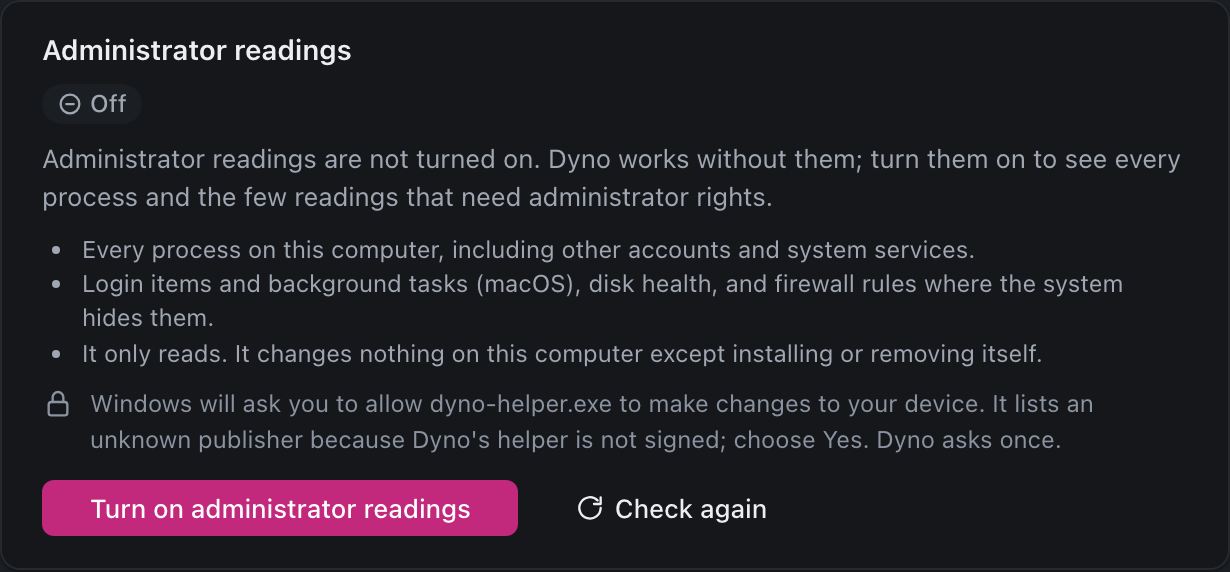
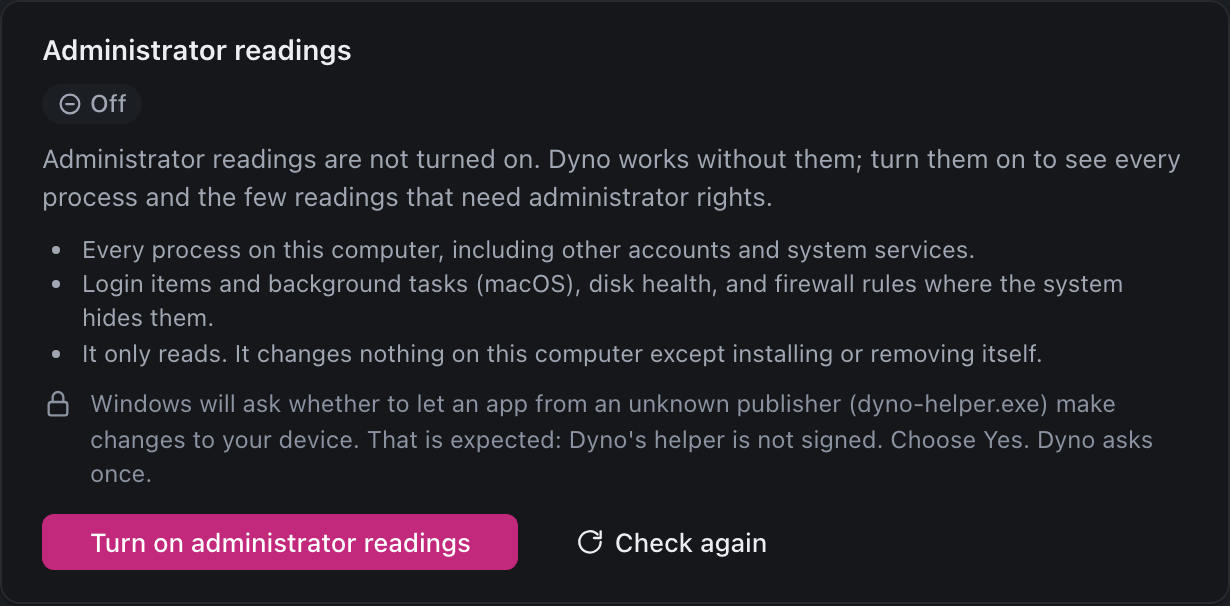
fix: missing socket folder is Off, self-removal unregisters first, Linux installed means enabled

diff --git a/apps/dyno/app/src/app/core/mock/helper.ts b/apps/dyno/app/src/app/core/mock/helper.ts
@@ -10,7 +10,7 @@ export const MOCK_HELPER_VERSION = '1.1.0';
 const PROMPTS: Record<MockOs, string> = {
   macos: 'macOS asks for your account password, in a window titled by osascript, to let Dyno install its helper.',
   windows:
-    "Windows will ask you to allow dyno-helper.exe to make changes to your device. It lists an unknown publisher because Dyno's helper is not signed; choose Yes.",
+    "Windows will ask whether to let an app from an unknown publisher (dyno-helper.exe) make changes to your device. That is expected: Dyno's helper is not signed. Choose Yes.",
   linux: 'Your desktop asks you to authenticate (polkit) so Dyno can install its helper.',
 };
 

diff --git a/apps/dyno/crates/dyno-agent/src/helper_os.rs b/apps/dyno/crates/dyno-agent/src/helper_os.rs
@@ -80,6 +80,20 @@ pub fn unsupported(host: HelperHost, bundled: &Path, bundled_exists: bool, appim
     Ok(())
 }
 
+/// Whether the helper has been turned on: its protected program is there (macOS, Windows), or, on Linux, where the package puts the
+/// program in place whether or not anyone enabled it, the service is enabled (`systemctl is-enabled`, which needs no rights).
+pub fn is_installed(host: HelperHost, program: &Path, runner: &dyn ToolRunner) -> bool {
+    if host != HelperHost::Linux {
+        return program.exists();
+    }
+    runner
+        .run_tool(
+            &tool("/usr/bin/systemctl", &["is-enabled", "dyno-helper.service"]),
+            Duration::from_secs(5),
+        )
+        .is_ok_and(|o| o.ok)
+}
+
 /// The program the elevated `uninstall` runs. Windows cannot delete a program that is running, so the installed copy cannot remove
 /// itself (measured in the Windows 11 VM: `RemoveProgram ... Access is denied`); the bundled copy removes it. Elsewhere the
 /// installed copy does (the running file can be unlinked).
@@ -160,7 +174,7 @@ pub fn centre() -> HelperCentre<PeerTransport> {
     let installed_path = paths.binary.clone();
     let transport = PeerTransport::new(paths.endpoint.clone(), {
         let p = installed_path.clone();
-        move || p.exists()
+        move || is_installed(host, &p, &SystemRunner)
     });
     let owner = current_owner(host, &SystemRunner);
     let installer = OsInstaller {
@@ -199,7 +213,7 @@ mod tests {
     impl ToolRunner for Says {
         fn run_tool(&self, t: &Tool, _: Duration) -> Result<ToolOutput, dyno_core::ports::PlatformError> {
             assert!(
-                t.program == "whoami" || t.program == "/usr/bin/id",
+                ["whoami", "/usr/bin/id", "/usr/bin/systemctl"].contains(&t.program.as_str()),
                 "only fixed programs: {}",
                 t.program
             );
@@ -218,6 +232,31 @@ mod tests {
         assert!(current_owner(HelperHost::Linux, &Says("nope".into()))
             .unwrap_err()
             .contains("which account"));
+    }
+
+    #[test]
+    fn on_linux_the_helper_is_installed_when_its_service_is_enabled_not_when_the_package_put_the_program_there() {
+        // Measured on Ubuntu (Orb): with the program in /usr/bin and the service not enabled the card said "Not running" instead of "Off".
+        let enabled = Says("enabled\n".into());
+        let program = Path::new("/usr/bin/dyno-helper");
+        assert!(is_installed(HelperHost::Linux, program, &enabled));
+        struct Disabled;
+        impl ToolRunner for Disabled {
+            fn run_tool(&self, _: &Tool, _: Duration) -> Result<ToolOutput, dyno_core::ports::PlatformError> {
+                Ok(ToolOutput {
+                    ok: false,
+                    stdout: "disabled\n".into(),
+                    error: String::new(),
+                })
+            }
+        }
+        assert!(!is_installed(HelperHost::Linux, program, &Disabled));
+        // Elsewhere the protected program's presence decides (a path that is not there: not installed, no tool run).
+        assert!(!is_installed(
+            HelperHost::Macos,
+            Path::new("/definitely/not/here/dyno-helper"),
+            &enabled
+        ));
     }
 
     #[test]

diff --git a/crates/paddock-service/src/privileged/install_tests.rs b/crates/paddock-service/src/privileged/install_tests.rs
@@ -997,7 +997,8 @@ fn a_service_removing_itself_deletes_its_files_first_and_stops_last() {
             .log()
             .iter()
             .find(|l| *l == "evict" || *l == "unregister"),
-        Some(&"evict".to_string())
+        Some(&"unregister".to_string()),
+        "the registration goes before the stop that ends this process"
     );
 }
 
@@ -1094,5 +1095,35 @@ fn a_process_that_does_not_end_is_an_error_that_names_it_and_removes_nothing() {
     assert!(
         files.facts_of(Path::new(MAC_PROGRAM)).is_some(),
         "the program stays"
+    );
+}
+
+#[test]
+fn a_service_removing_itself_unregisters_before_it_stops_because_the_stop_ends_the_process_running_the_steps()
+ {
+    // Measured in a macOS VM: `launchctl bootout` of its own job ended the helper before the plist was removed, so the
+    // definition stayed behind. Taking the registration away first leaves nothing to restart and nothing behind.
+    let files = mac_disk();
+    files.put_file(MAC_PROGRAM, b"x", 0, 0o755);
+    let backend = Scripted::with(|s| {
+        s.registered = true;
+        s.running = true;
+        s.process = Some(helper_process());
+        s.alive_polls = 5;
+    });
+    let (mut f, mut b, mut sys) = (files.clone(), backend.clone(), FakeSystem::new());
+    Installer::new(&layout_for(Os::MacOs), &mut f, &mut b, &mut sys)
+        .uninstall_self()
+        .unwrap();
+    let log = backend.log();
+    let at = |what: &str| {
+        log.iter()
+            .position(|l| l == what)
+            .unwrap_or_else(|| panic!("{what} not in {log:?}"))
+    };
+    assert!(at("unregister") < at("evict"), "{log:?}");
+    assert!(
+        log.iter().all(|l| !l.starts_with("alive")),
+        "it does not wait for its own process: {log:?}"
     );
 }

diff --git a/crates/paddock-ipc/tests/it/system.rs b/crates/paddock-ipc/tests/it/system.rs
@@ -168,6 +168,34 @@ fn a_system_endpoint_in_a_missing_or_linked_folder_is_refused_with_the_cause() {
     assert!(Stream::connect_system("helper.sock", T).is_err());
 }
 
+#[cfg(unix)]
+#[test]
+fn a_client_finding_no_folder_or_no_socket_sees_nothing_listening_not_an_untrusted_server() {
+    // Measured in a clean macOS VM: before the helper is installed its socket folder does not exist, and the agent called that
+    // an endpoint it did not trust ("Not trusted") instead of "Off". Nothing there is nothing listening.
+    let dir = tempfile::tempdir().unwrap();
+    let missing = dir
+        .path()
+        .join("no/such/helper.sock")
+        .to_string_lossy()
+        .into_owned();
+    let e = Stream::connect_system(&missing, T).err().unwrap();
+    assert!(
+        matches!(&e, SystemConnectError::Connect(io) if io.kind() == std::io::ErrorKind::NotFound),
+        "{e}"
+    );
+    // A folder that exists and is the client's own is still refused (not root's), whether or not a socket is in it.
+    let own = dir.path().join("own.sock").to_string_lossy().into_owned();
+    let e = Stream::connect_system(&own, T).err().unwrap();
+    assert!(
+        matches!(
+            e,
+            SystemConnectError::Untrusted(Untrusted::FolderOwner { .. })
+        ),
+        "{e}"
+    );
+}
+
 #[cfg(windows)]
 #[test]
 fn a_pipe_not_owned_by_system_is_refused_before_anything_is_sent() {

diff --git a/crates/paddock-service/src/privileged/install.rs b/crates/paddock-service/src/privileged/install.rs
@@ -324,12 +324,22 @@ impl<'a> Installer<'a> {
         let mut notes = Vec::new();
         // Read before the stop: afterwards the OS may not name the process any more.
         let running = self.backend.job_process();
-        if let Err(e) = self.backend.evict() {
-            notes.push(format!("stop: {e}"));
+        if self.running_here {
+            // The stop ends the process that is running these steps: take the registration away first.
+            self.backend
+                .unregister()
+                .map_err(|e| failed(Step::StopExisting, e))?;
+            if let Err(e) = self.backend.evict() {
+                notes.push(format!("stop: {e}"));
+            }
+        } else {
+            if let Err(e) = self.backend.evict() {
+                notes.push(format!("stop: {e}"));
+            }
+            self.backend
+                .unregister()
+                .map_err(|e| failed(Step::StopExisting, e))?;
         }
-        self.backend
-            .unregister()
-            .map_err(|e| failed(Step::StopExisting, e))?;
         let mut waited = Duration::ZERO;
         while !self.backend.job_gone() {
             if waited >= self.waits.gone {

diff --git a/crates/paddock-ipc/src/endpoint/unix.rs b/crates/paddock-ipc/src/endpoint/unix.rs
@@ -193,6 +193,16 @@ impl Stream {
         expected_uid: u32,
     ) -> Result<Stream, super::SystemConnectError> {
         use super::SystemConnectError::{Connect, Untrusted};
+        // No folder at all means nothing is listening (the service was never installed): that is not an untrusted server.
+        let parent = Path::new(name)
+            .parent()
+            .filter(|p| !p.as_os_str().is_empty())
+            .unwrap_or_else(|| Path::new("."));
+        if let Err(e) = std::fs::symlink_metadata(parent)
+            && e.kind() == io::ErrorKind::NotFound
+        {
+            return Err(Connect(e));
+        }
         super::unix_peer::check_folder_of(name, expected_uid).map_err(Untrusted)?;
         let stream = Stream::connect(name, timeout).map_err(Connect)?;
         let uid = peer_uid(&stream.s).ok_or_else(|| {

diff --git a/apps/dyno/crates/dyno-core/src/helper_wire.rs b/apps/dyno/crates/dyno-core/src/helper_wire.rs
@@ -323,7 +323,7 @@ pub fn version_at_least(have: &str, min: &str) -> bool {
 pub fn prompt_text(host: HelperHost) -> &'static str {
     match host {
         HelperHost::Windows => {
-            "Windows will ask you to allow dyno-helper.exe to make changes to your device. It lists an unknown publisher because Dyno's helper is not signed; choose Yes."
+            "Windows will ask whether to let an app from an unknown publisher (dyno-helper.exe) make changes to your device. That is expected: Dyno's helper is not signed. Choose Yes."
         }
         HelperHost::Macos => "macOS asks for your account password, in a window titled by osascript, to let Dyno install its helper.",
         HelperHost::Linux => "Your desktop asks you to authenticate (polkit) so Dyno can install its helper.",

diff --git a/apps/dyno/crates/dyno-helper/src/setup.rs b/apps/dyno/crates/dyno-helper/src/setup.rs
@@ -135,6 +135,11 @@ pub fn remove_data_folder(paths: &HelperPaths) -> Result<String, String> {
 /// # Errors
 /// What went wrong.
 pub fn uninstall_self(os: Os) -> Result<Report, String> {
+    // The last step ends this process, so what the helper wrote goes first (a file this process holds open may stay: said in the log).
+    match remove_data_folder(&helper_paths()) {
+        Ok(note) => log::info!(note = note.as_str(); "self-uninstall: the data folder"),
+        Err(why) => log::warn!(why = why.as_str(); "self-uninstall: the data folder was kept"),
+    }
     uninstall_self_in_place(os, &windows_roots(&ProcessVars), &mut RealFiles, &system).map_err(|e| e.to_string())
 }
 

diff --git a/apps/dyno/crates/dyno-agent/tests/helper_vm.rs b/apps/dyno/crates/dyno-agent/tests/helper_vm.rs
@@ -35,6 +35,7 @@ fn the_helper_state_and_one_action_on_this_machine() {
     let centre = helper_os::centre();
     let before = centre.status();
     println!("state before: {:?}: {}", before.state, before.message);
+    println!("detail before: {:?}", before.detail);
     if let Some(action) = action() {
         let registry = JobRegistry::with_clock(Arc::new(Print), Arc::new(SystemClock), 0);
         let ctx = registry.register("helper", "Helper", None);

diff --git a/apps/dyno/docs/helper-verification.md b/apps/dyno/docs/helper-verification.md
@@ -39,31 +39,74 @@ it builds the agent's `HelperCentre` for the machine, prints the state, runs the
    `dyno-helper.exe` in Program Files, and the prompted `uninstall` run from the installed copy failed with `RemoveProgram ... Access is denied`.
    Fixed in the agent: on Windows the elevated `uninstall` runs the bundled copy, which removes the installed one completely, and Turn off on
    Windows goes straight to the prompt. (`uninstall_self_in_place` leaves the program behind on Windows; that is the service crate's to decide.)
-3. **One removal failed once** with `RemoveProgram ... left in place while it runs` right after a turn on, and did not repeat in three
-   later runs: `StopExisting` returned before the helper process had ended. It deserves a wait on the process's end in `paddock-service`
-   (not changed here).
-4. **The data folder stays** after removal (`config.json`, `helper.log`, `audit.jsonl`). A deliberate keep of the log, or a leftover: to be decided
-   with the owner of `paddock-service`.
-5. **One connection per call** writes one `a connection was accepted` line per request; a status poll during a one-minute wait writes
-   hundreds. The agent should hold one connection per job (WP-11 follow-up) or the helper should summarise (ADR 0027 section 9 asks for a
-   per-minute summary).
+3. **One removal failed once** with `RemoveProgram ... left in place while it runs` right after a turn on: `StopExisting` returned before the
+   helper process had ended. Fixed: the stop now waits for the process by identity (pid and start time) before anything is removed, with a clear
+   bounded error (test).
+4. **The data folder stayed** after removal. Fixed (see finding 9).
+5. **One connection per call** wrote one `a connection was accepted` line per request, hundreds during a status poll. Fixed: the agent keeps one
+   connection between calls (a stale one is replaced once), and the state is logged at info only when it changes.
 
 Update runs the same code as Repair (install again over the running helper) and was not run separately.
 
-## macOS (Tart `vmgui-base-tahoe-4aaa751f`): not run
+## macOS 26.6.2 (build 25G83, 2026-11-03): done
 
-The password dialog is `osascript`'s and is answered through the VM's GUI session; the helper must be cross-built for macOS (arm64) and the
-VM cloned to a private copy first. Not done in this session. To run: clone, copy `dyno-helper` and the `helper_vm` test binary into the clone,
-run `PADDOCK_VM=1 HELPER_ACTION=turnOn helper_vm --ignored --nocapture` from the GUI session, answer the dialog with the VM's VNC, then
-`launchctl print system/net.decryptology.dyno.helper`, check the daemon in System Settings > Login Items, the socket's folder
-(`/var/run/dyno-helper`, root-owned) and a second standard account; delete the clone.
+- **Machine.** A private clone of the Tart image `vmgui-base-tahoe-4aaa751f` (Apple silicon, the console user `admin` signed in), started with
+  `--vnc-experimental`; the clone is deleted. Binaries built natively on the host (`aarch64-apple-darwin`) and shared read-only. The agent side
+  ran in the user's session (`launchctl asuser`); the password was typed into the real dialog through the VM's VNC.
+- **Prompt seen.** Yes, the real `osascript` password window ("Dyno wants to install its helper, which shows the readings that need
+  administrator rights."): [turn on](screenshots/helper/macos-password-dialog-turn-on.png), [repair](screenshots/helper/macos-password-dialog-repair.png).
 
-## Linux (Orb `paddock-gate-arm`, systemd): not run
+| Step | Result |
+| --- | --- |
+| Nothing installed | `Off` (see finding 6: it said "Not trusted" before the fix) |
+| Turn on (password) | phases `check`, `prompt`, `start`, `verify`; `Ready`, readings listed for macOS |
+| The daemon | `launchctl print system/net.decryptology.dyno.helper`: running, run by `root`, program `/Library/PrivilegedHelperTools/net.decryptology.dyno.helper` (root:wheel 0755), plist `/Library/LaunchDaemons/...plist` (root:wheel 0644, `RunAtLoad`, `KeepAlive` on failure) |
+| The endpoint | `/var/run/dyno-helper` is `root:daemon 0755` (no group or world write), `helper.sock` is `srw-rw-rw-` (any local account may connect; what it sees is decided by its identity); the data folder is not readable by the standard user; `config.json` names uid 501 as owner |
+| Squatting | the standard user cannot create a folder under `/var/run` (`Permission denied`); with the folder made the standard user's own (as root, in the VM only), the state is `Foreign` ("Not trusted") and nothing is sent; given back to root it is `Ready` |
+| Repair (password) | `check`, `prompt` x3, `start`, `verify`; `Ready` |
+| Turn off | no prompt on macOS (a program can remove itself while it runs): phases `check`, `remove`, `verify`; `Off`; the daemon, the program and (after finding 7) the plist are gone |
+| Log lines | `Helper: protected-location check ... protected=true`, `Helper: serving endpoint=/var/run/dyno-helper/helper.sock owner=uid:501 version=...`, one `a connection was accepted account=uid 501 admin=true` for a whole poll (one kept connection) |
 
-The machine has no polkit (`pkexec` is missing) and no authentication agent; `pkexec` from the agent's pipe-connected process needs one.
-To run: install `polkitd` and `pkexec`, start a text agent on a terminal (`pkttyagent`) or a rule that allows the one command for the test
-account, build `dyno-helper` and the `helper_vm` test natively in the machine, run the harness, then `systemctl status dyno-helper`,
-`systemd-analyze security dyno-helper`, the socket's mode and its root-owned folder, and a second account.
+## Ubuntu 24.04 arm64 (Orb `paddock-gate-arm`, systemd, 2026-11-03): done except the polkit prompt
+
+- **Machine.** The Orb machine, restored afterwards: `polkitd`, `pkexec`, `libpolkit-agent-1-0`, `libpolkit-gobject-1-0` installed for the test and
+  removed again, the test account `dynotest` (member of `sudo`) removed, `/usr/bin/dyno-helper` and the unit removed, the build folder removed.
+  Binaries built natively in the machine. The `.deb` is not built yet (WP-13), so the program was copied to `/usr/bin` and the packaged unit
+  (`paddock-service`'s golden) to `/usr/lib/systemd/system`, as the package will.
+- **The polkit prompt: not exercised.** The agent's `pkexec` runs with no terminal and there is no graphical authentication agent in the
+  machine; a text agent (`pkttyagent`) could not be attached to the agent's `pkexec` (it tried its own and failed on `/dev/tty`: "You are not
+  allowed to do this (Error creating textual authentication agent ...)", shown as the job's failure). The install itself was run as root
+  (`dyno-helper install --for uid:1000`), which is what `pkexec` runs. A desktop test is still open.
+
+| Step | Result |
+| --- | --- |
+| Package installed, service not enabled | `Off` after finding 8 (it said "Not running" before: the program's presence is not "turned on") |
+| Install as root | `install: StopExisting, VerifyProgram, Register, Confirm (running)` |
+| State as the standard user | `Ready`, the Linux readings listed |
+| Service | `dyno-helper.service` active, `ps`: `root`; `/run/dyno-helper` `root:root 0755`, `helper.sock` `srw-rw-rw-`; `/var/lib/dyno-helper` `root 0700`, `config.json` owner uid 1000 |
+| Unit hardening | the unit is the golden file (`ProtectSystem=strict`, `NoNewPrivileges=yes`, `PrivateTmp`, `CapabilityBoundingSet` of five, `SystemCallFilter=@system-service`, `IPAddressDeny=any`, `RestrictAddressFamilies=AF_UNIX AF_NETLINK`, `MemoryDenyWriteExecute`, `UMask=0077`, ...). `systemd-analyze security`: exposure 4.8 OK; the applied seccomp filter, the capability set, `IPAddressDeny` and `MemoryDenyWriteExecute` are in force. **`ProtectSystem`, `NoNewPrivileges`, `PrivateTmp` and `ProtectHome` read `no` in this machine** because it carries a global drop-in `/run/systemd/system/service.d/zzz-lxc-service.conf` that switches them off (an LXC-style container): they need a real VM to verify |
+| Squatting | the standard user cannot create under `/run`; with `/run/dyno-helper` made the standard user's own (as root) the state is `Foreign`; given back it is `Ready` |
+| Turn off | the helper removes itself on the authenticated request: the unit is stopped and `/run/dyno-helper` and `/var/lib/dyno-helper` are gone; the package's program stays (dpkg's) |
+
+## Findings of the macOS and Linux runs, and what was done
+
+6. **A missing socket folder was "Not trusted".** Before anything is installed, `/var/run/dyno-helper` does not exist and `paddock-ipc`'s
+   client check called that an untrusted endpoint (macOS and Linux both showed `Foreign`; after Turn off the job then waited for an `Off` that
+   could not come). Fixed in `paddock-ipc` (a missing folder is "nothing listening"), with a test.
+7. **Self-removal left the registration behind.** On macOS `launchctl bootout` of its own job ended the helper before it removed its plist.
+   Fixed: a service removing itself unregisters first and stops last (test). The stale `helper.sock` and an empty `/Library/Application
+   Support/Dyno` folder remain on macOS; both are harmless and are noted for the service crate.
+8. **"Installed" on Linux was "the package's program exists".** Without the service enabled the card said "Not running" instead of "Off".
+   Fixed: on Linux, installed means `systemctl is-enabled` succeeds.
+9. The helper's data folder is now removed by the elevated `uninstall` and by the self-removal (only its own files and folders, a link is never
+   followed); the data folder of the earlier Windows run was kept before this fix.
+
+## Windows: what the card says, and what was not re-run
+
+The Windows build of Dyno's helper is unsigned, and stays so (user decision, 2026-11-03), so the card says before Turn on that Windows will ask
+whether to let an app from an unknown publisher (`dyno-helper.exe`) make changes to the device, that this is expected, and to choose Yes
+(`prompt_text`, shown on every Windows card state that can turn the helper on; no password line on Windows). The fixes above (the stop race,
+the data folder, the kept connection) were not run again in the Windows VM in this session; the macOS and Linux runs exercise the same code.
 
 ## Settings card, every state (mock backend, independent review)
 
